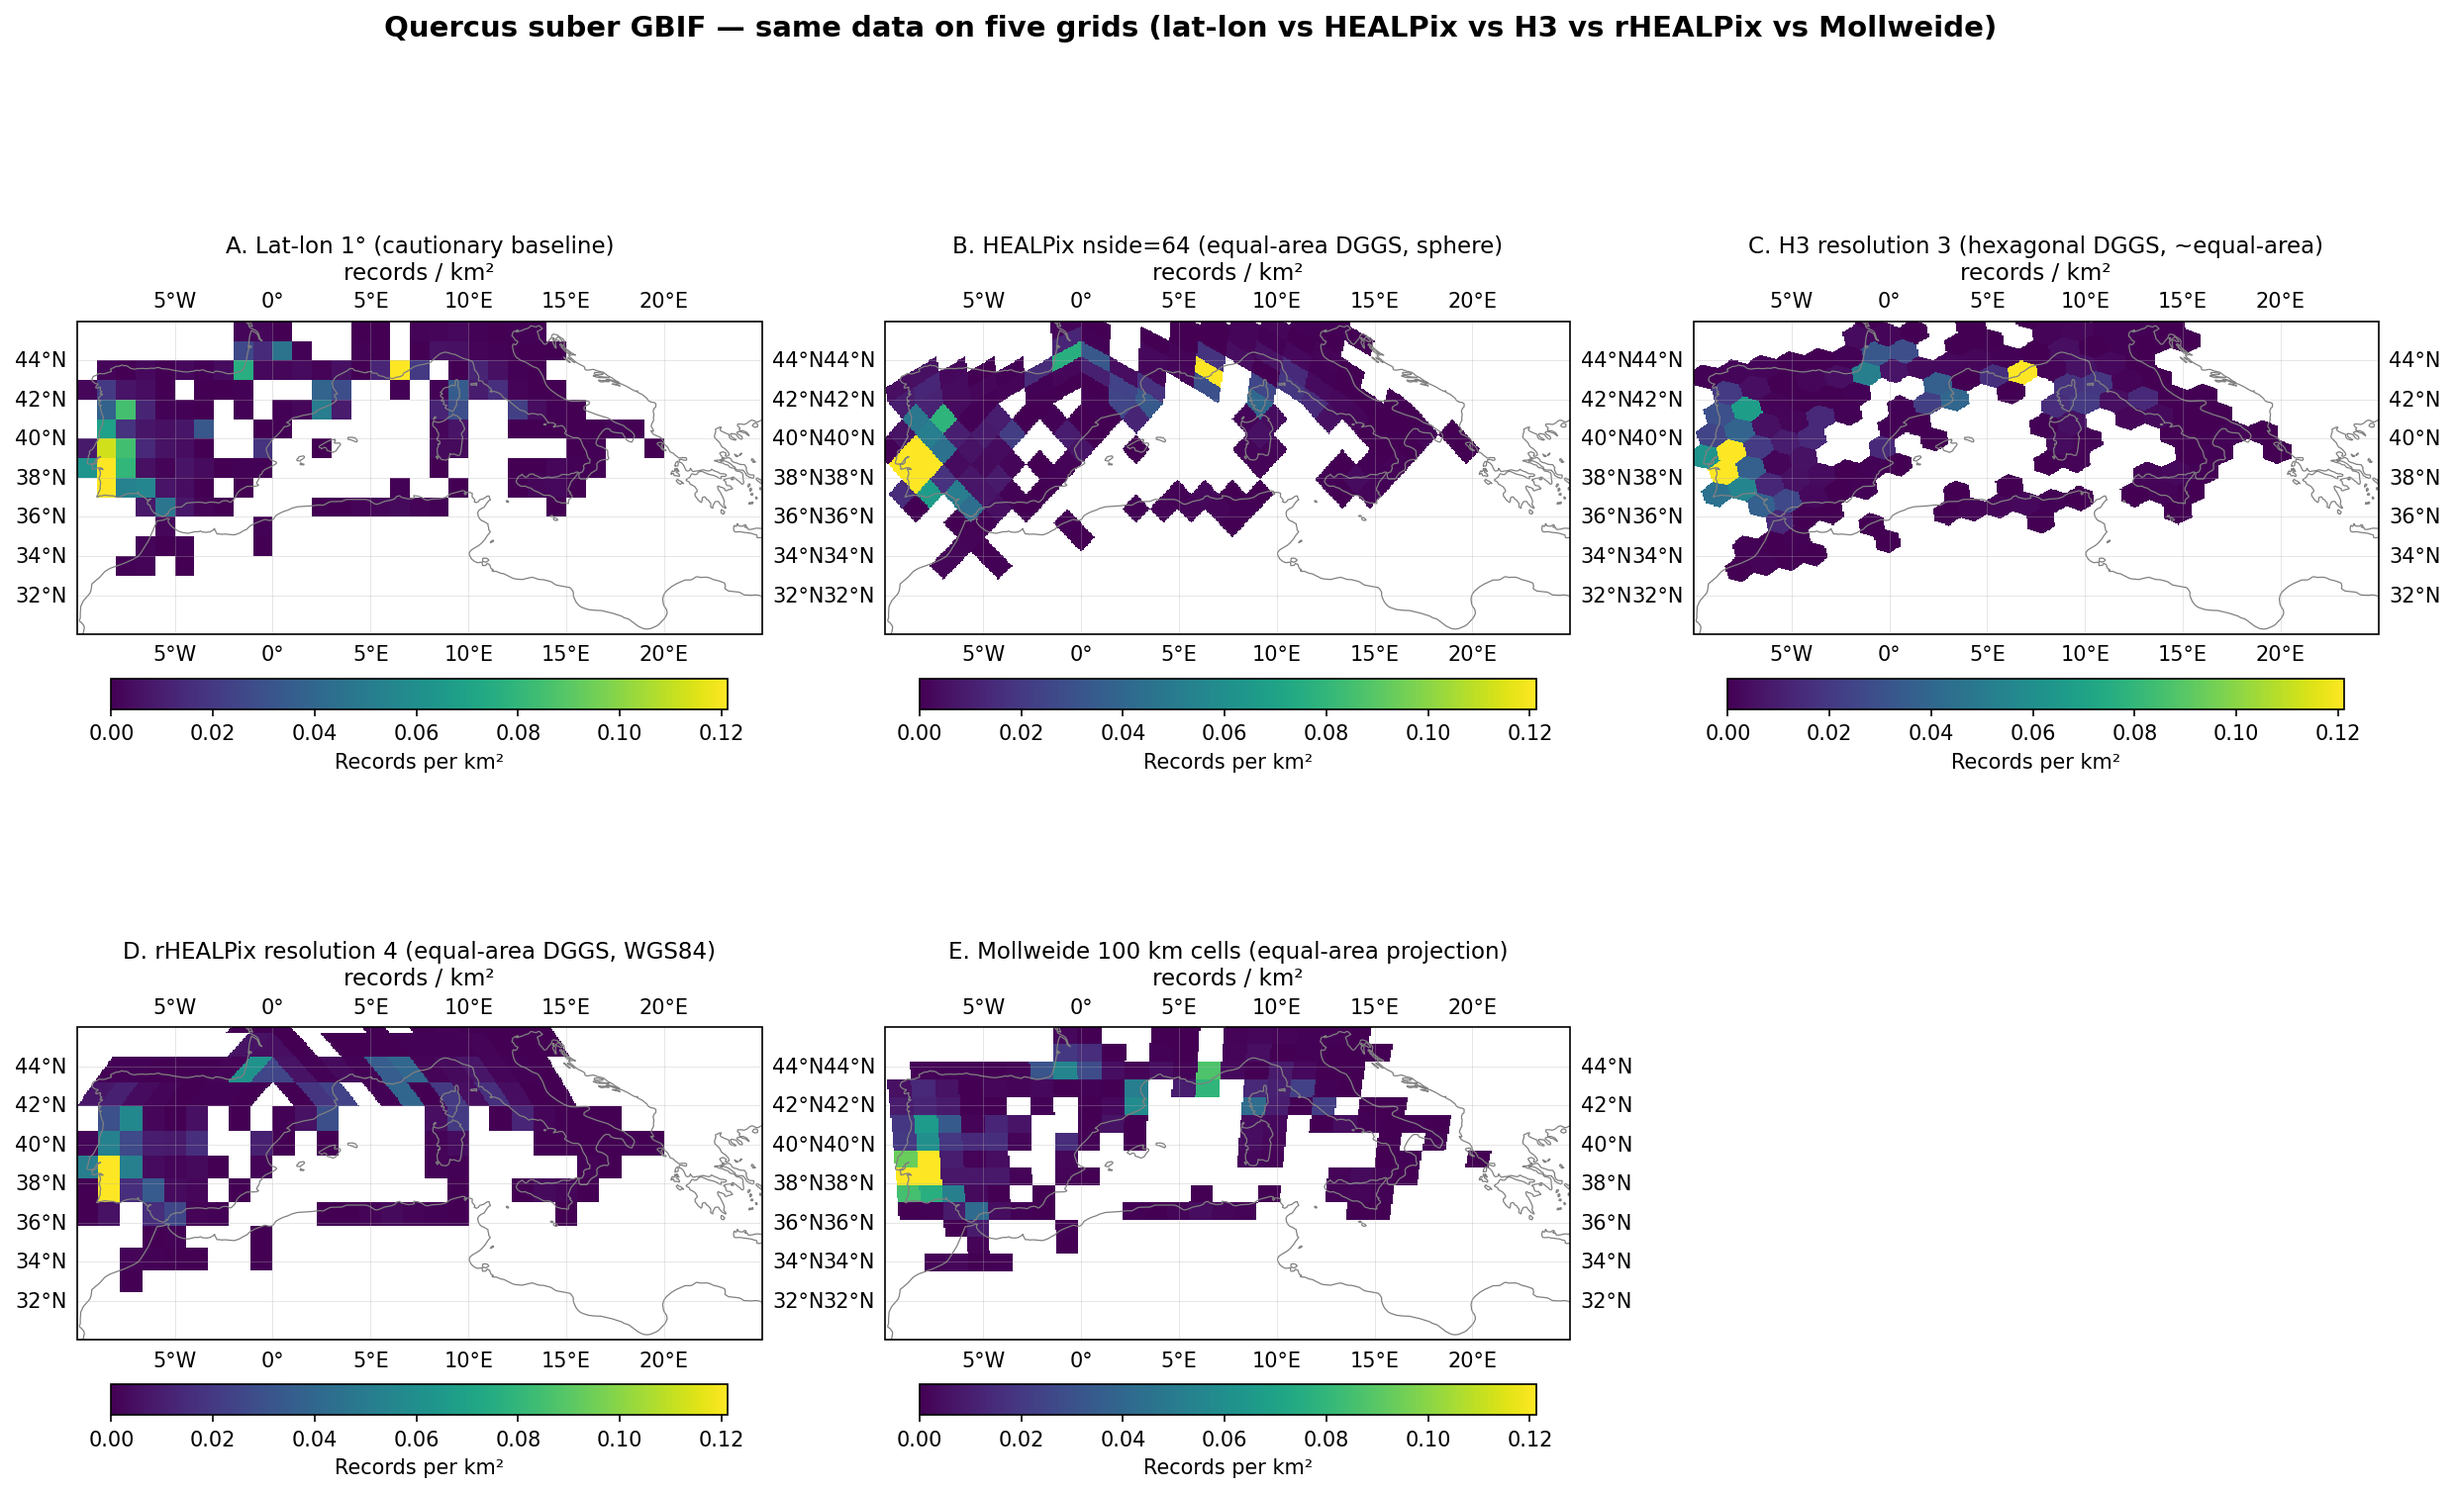
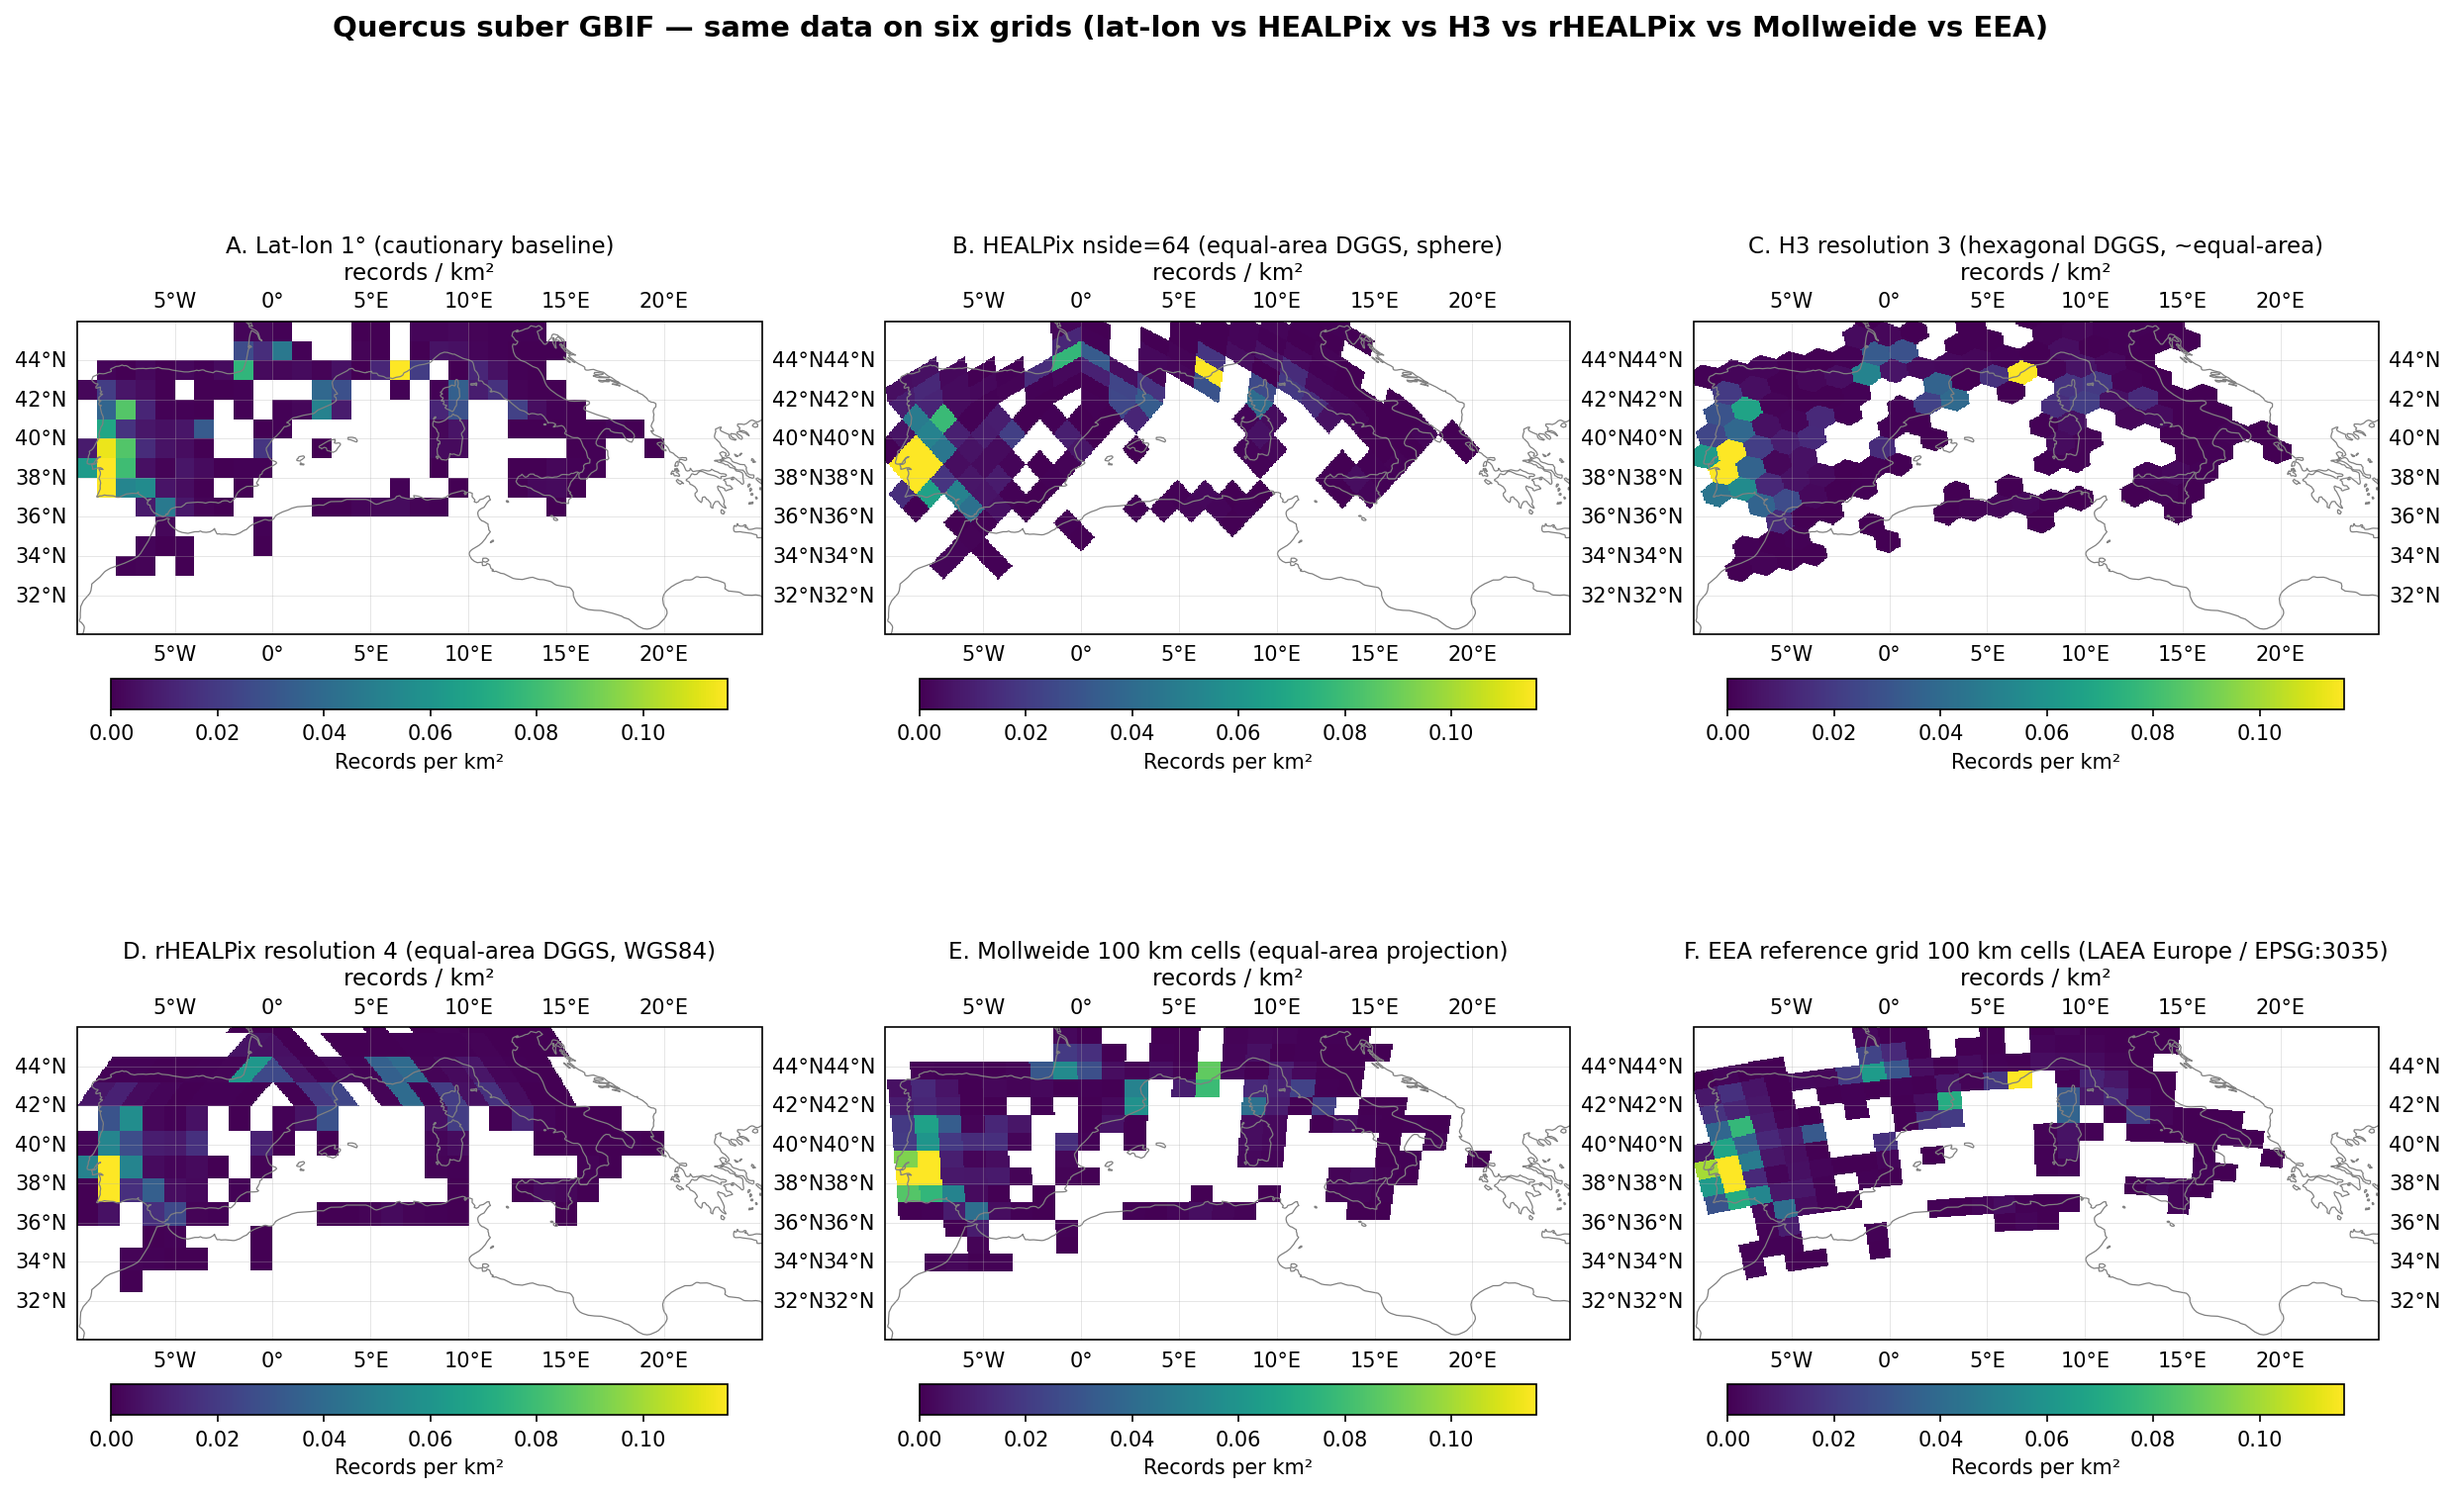
Add EEA reference grid (LAEA Europe / EPSG:3035) to notebook 07
The EEA reference grid is the European Environment Agency's INSPIRE /
Habitats Directive standard for biodiversity reporting across the EU.
It is a regular grid in Lambert Azimuthal Equal Area centred at
(10°E, 52°N) with false easting 4,321,000 m and false northing
3,210,000 m. Standard cell sizes are 1, 10, 25, and 100 km.

Uses 100 km cells for resolution match with HEALPix nside=64.
Note that the EEA grid is regional — well-defined for Europe, where
Q. suber's Mediterranean range comfortably sits.

Tested locally:
  EEA reference grid 100 km: 165 occupied (matches lat-lon 165)

Six grids now compared in the same figure. Only ISEA3H (requires
DGGRID, available in the Docker container) remains.

diff --git a/notebooks/07_multigrid_quercus_suber.py b/notebooks/07_multigrid_quercus_suber.py
@@ -33,8 +33,9 @@
 #
 # - First commit: **lat-lon 1°**, **HEALPix nside=64**, **H3 res 3**
 # - Second commit: + **rHEALPix res 4** (equal-area projected HEALPix variant)
-# - This commit: + **Mollweide ~100 km cells** (equal-area pseudo-cylindrical projection — atlas practice)
-# - Follow-up: + EEA reference grid (LAEA Europe), ISEA3H (requires Docker)
+# - Third commit: + **Mollweide ~100 km cells** (equal-area pseudo-cylindrical projection — atlas practice)
+# - This commit: + **EEA reference grid 100 km cells** (LAEA Europe / EPSG:3035, INSPIRE / Habitats Directive standard)
+# - Follow-up: + ISEA3H (requires Docker container with DGGRID v8.41)
 #
 # ## Environment requirements
 #
@@ -242,6 +243,52 @@ print(f"Mollweide {MOLL_CELL_SIDE_KM:.0f} km cells: "
       f"each {moll_cell_area_km2:,.0f} km² (projected)")
 
 # %% [markdown]
+# ## Step 5d: Aggregate on the EEA reference grid (LAEA Europe / EPSG:3035)
+#
+# The EEA reference grid is the European Environment Agency's standard
+# grid system used by INSPIRE and the Habitats Directive for
+# biodiversity reporting across the EU. It is a regular grid in the
+# **Lambert Azimuthal Equal Area** projection centred at (10°E, 52°N)
+# with false easting 4,321,000 m and false northing 3,210,000 m
+# (EPSG:3035). Standard cell sizes are 1 km, 10 km, 25 km, and 100 km.
+#
+# We use 100 km cells here for resolution match with HEALPix nside=64.
+# Note: the EEA grid is **regional** — well-defined for Europe, where
+# Q. suber's Mediterranean range comfortably sits.
+
+# %%
+EEA_CELL_SIDE_KM = 100.0
+EEA_CELL_SIDE_M = EEA_CELL_SIDE_KM * 1000.0
+eea_cell_area_km2 = EEA_CELL_SIDE_KM ** 2
+
+eea_proj = ccrs.LambertAzimuthalEqualArea(
+    central_longitude=10.0, central_latitude=52.0,
+    false_easting=4_321_000.0, false_northing=3_210_000.0,
+)
+
+xy_eea_data = eea_proj.transform_points(ccrs.PlateCarree(), lons_r, lats_r)
+x_eea_data = xy_eea_data[:, 0]
+y_eea_data = xy_eea_data[:, 1]
+
+# Snap edges to multiples of cell side (matches the EEA reference grid origin)
+x_edges_eea = np.arange(
+    np.floor(x_eea_data.min() / EEA_CELL_SIDE_M) * EEA_CELL_SIDE_M,
+    np.ceil(x_eea_data.max() / EEA_CELL_SIDE_M) * EEA_CELL_SIDE_M + EEA_CELL_SIDE_M,
+    EEA_CELL_SIDE_M,
+)
+y_edges_eea = np.arange(
+    np.floor(y_eea_data.min() / EEA_CELL_SIDE_M) * EEA_CELL_SIDE_M,
+    np.ceil(y_eea_data.max() / EEA_CELL_SIDE_M) * EEA_CELL_SIDE_M + EEA_CELL_SIDE_M,
+    EEA_CELL_SIDE_M,
+)
+counts_eea, _, _ = np.histogram2d(
+    y_eea_data, x_eea_data, bins=[y_edges_eea, x_edges_eea],
+)
+print(f"EEA reference grid {EEA_CELL_SIDE_KM:.0f} km cells: "
+      f"{int(np.sum(counts_eea > 0)):,} occupied, "
+      f"each {eea_cell_area_km2:,.0f} km² (projected)")
+
+# %% [markdown]
 # ## Step 6: Build a common colour scale and rasterise each grid
 #
 # To compare the three grids fairly we render each on the same plotting
@@ -304,6 +351,25 @@ moll_density_masked = np.ma.masked_where(
     moll_field.reshape(plot_lat_g.shape) == 0, moll_density,
 )
 
+# EEA: project plot mesh to LAEA Europe and look up bin
+xy_plot_eea = eea_proj.transform_points(
+    ccrs.PlateCarree(), plot_lon_g.ravel(), plot_lat_g.ravel(),
+)
+ix_eea = np.digitize(xy_plot_eea[:, 0], x_edges_eea) - 1
+iy_eea = np.digitize(xy_plot_eea[:, 1], y_edges_eea) - 1
+in_bounds_eea = (
+    (ix_eea >= 0) & (ix_eea < counts_eea.shape[1])
+    & (iy_eea >= 0) & (iy_eea < counts_eea.shape[0])
+)
+ix_eea_clip = np.clip(ix_eea, 0, counts_eea.shape[1] - 1)
+iy_eea_clip = np.clip(iy_eea, 0, counts_eea.shape[0] - 1)
+eea_field = counts_eea[iy_eea_clip, ix_eea_clip].astype(float)
+eea_field[~in_bounds_eea] = 0
+eea_density = (eea_field / eea_cell_area_km2).reshape(plot_lat_g.shape)
+eea_density_masked = np.ma.masked_where(
+    eea_field.reshape(plot_lat_g.shape) == 0, eea_density,
+)
+
 # Lat-lon: already on its own grid
 density_latlon_masked = np.ma.masked_where(counts_latlon == 0, density_latlon)
 
@@ -313,14 +379,15 @@ shared_vmax = float(np.percentile(np.concatenate([
     h3_density_masked.compressed(),
     rhp_density_masked.compressed(),
     moll_density_masked.compressed(),
+    eea_density_masked.compressed(),
 ]), 98))
 
 # %% [markdown]
-# ## Step 7: Five-panel comparison
+# ## Step 7: Six-panel comparison
 #
-# Same data, five grids. The four equal-area grids (HEALPix, H3,
-# rHEALPix, Mollweide) should agree on the apparent density pattern.
-# The lat-lon panel is the cautionary case.
+# Same data, six grids. The five equal-area grids (HEALPix, H3,
+# rHEALPix, Mollweide, EEA) should agree on the apparent density
+# pattern. The lat-lon panel is the cautionary case.
 
 # %%
 fig = plt.figure(figsize=(20, 11))
@@ -337,6 +404,8 @@ panels = [
      rhp_density_masked, plot_lons, plot_lats, "centres"),
     (f"E. Mollweide {MOLL_CELL_SIDE_KM:.0f} km cells (equal-area projection)\nrecords / km²",
      moll_density_masked, plot_lons, plot_lats, "centres"),
+    (f"F. EEA reference grid {EEA_CELL_SIDE_KM:.0f} km cells (LAEA Europe / EPSG:3035)\nrecords / km²",
+     eea_density_masked, plot_lons, plot_lats, "centres"),
 ]
 
 for k, (title, data, x, y, kind) in enumerate(panels):
@@ -356,8 +425,8 @@ for k, (title, data, x, y, kind) in enumerate(panels):
                  label="Records per km²", shrink=0.9)
 
 fig.suptitle(
-    "Quercus suber GBIF — same data on five grids "
-    "(lat-lon vs HEALPix vs H3 vs rHEALPix vs Mollweide)",
+    "Quercus suber GBIF — same data on six grids "
+    "(lat-lon vs HEALPix vs H3 vs rHEALPix vs Mollweide vs EEA)",
     fontsize=14, fontweight="bold", y=1.00,
 )
 plt.savefig("../images/multigrid_quercus_suber.png", dpi=150,
@@ -367,21 +436,20 @@ plt.show()
 # %% [markdown]
 # ## Conclusion (this iteration)
 #
-# Four equal-area aggregation choices — HEALPix (exactly equal-area on
+# Five equal-area aggregation choices — HEALPix (exactly equal-area on
 # the sphere), H3 (~1.4% area variation, hexagonal, icosahedron-based),
 # rHEALPix (exactly equal-area on the WGS84 ellipsoid, projected
-# cube-based), and Mollweide (equal-area pseudo-cylindrical projection,
-# gridded in projected coordinates — the standard atlas practice) —
+# cube-based), Mollweide (equal-area pseudo-cylindrical projection,
+# gridded in projected coordinates), and the EEA reference grid (LAEA
+# Europe / EPSG:3035, the European biodiversity-reporting standard) —
 # produce visually similar density patterns over Q. suber's Mediterranean
 # range. Lat-lon shows the systematic equator-pole distortion notebook 02
 # already isolated.
 #
-# The remaining iterations of this notebook will add:
+# The remaining iteration of this notebook will add:
 #
-# - **EEA reference grid** — LAEA Europe (EPSG:3035), INSPIRE / Habitats
-#   Directive standard for European biodiversity reporting
 # - **ISEA3H** — the DGGS the Eco-ISEA3H paper advocates (requires the
 #   Docker container at ghcr.io/annefou/dggs-biodiversity-bias:main with
 #   DGGRID v8.41)
 #
-# Each addition produces another panel in the comparison figure.
+# That addition produces the seventh and final panel.
